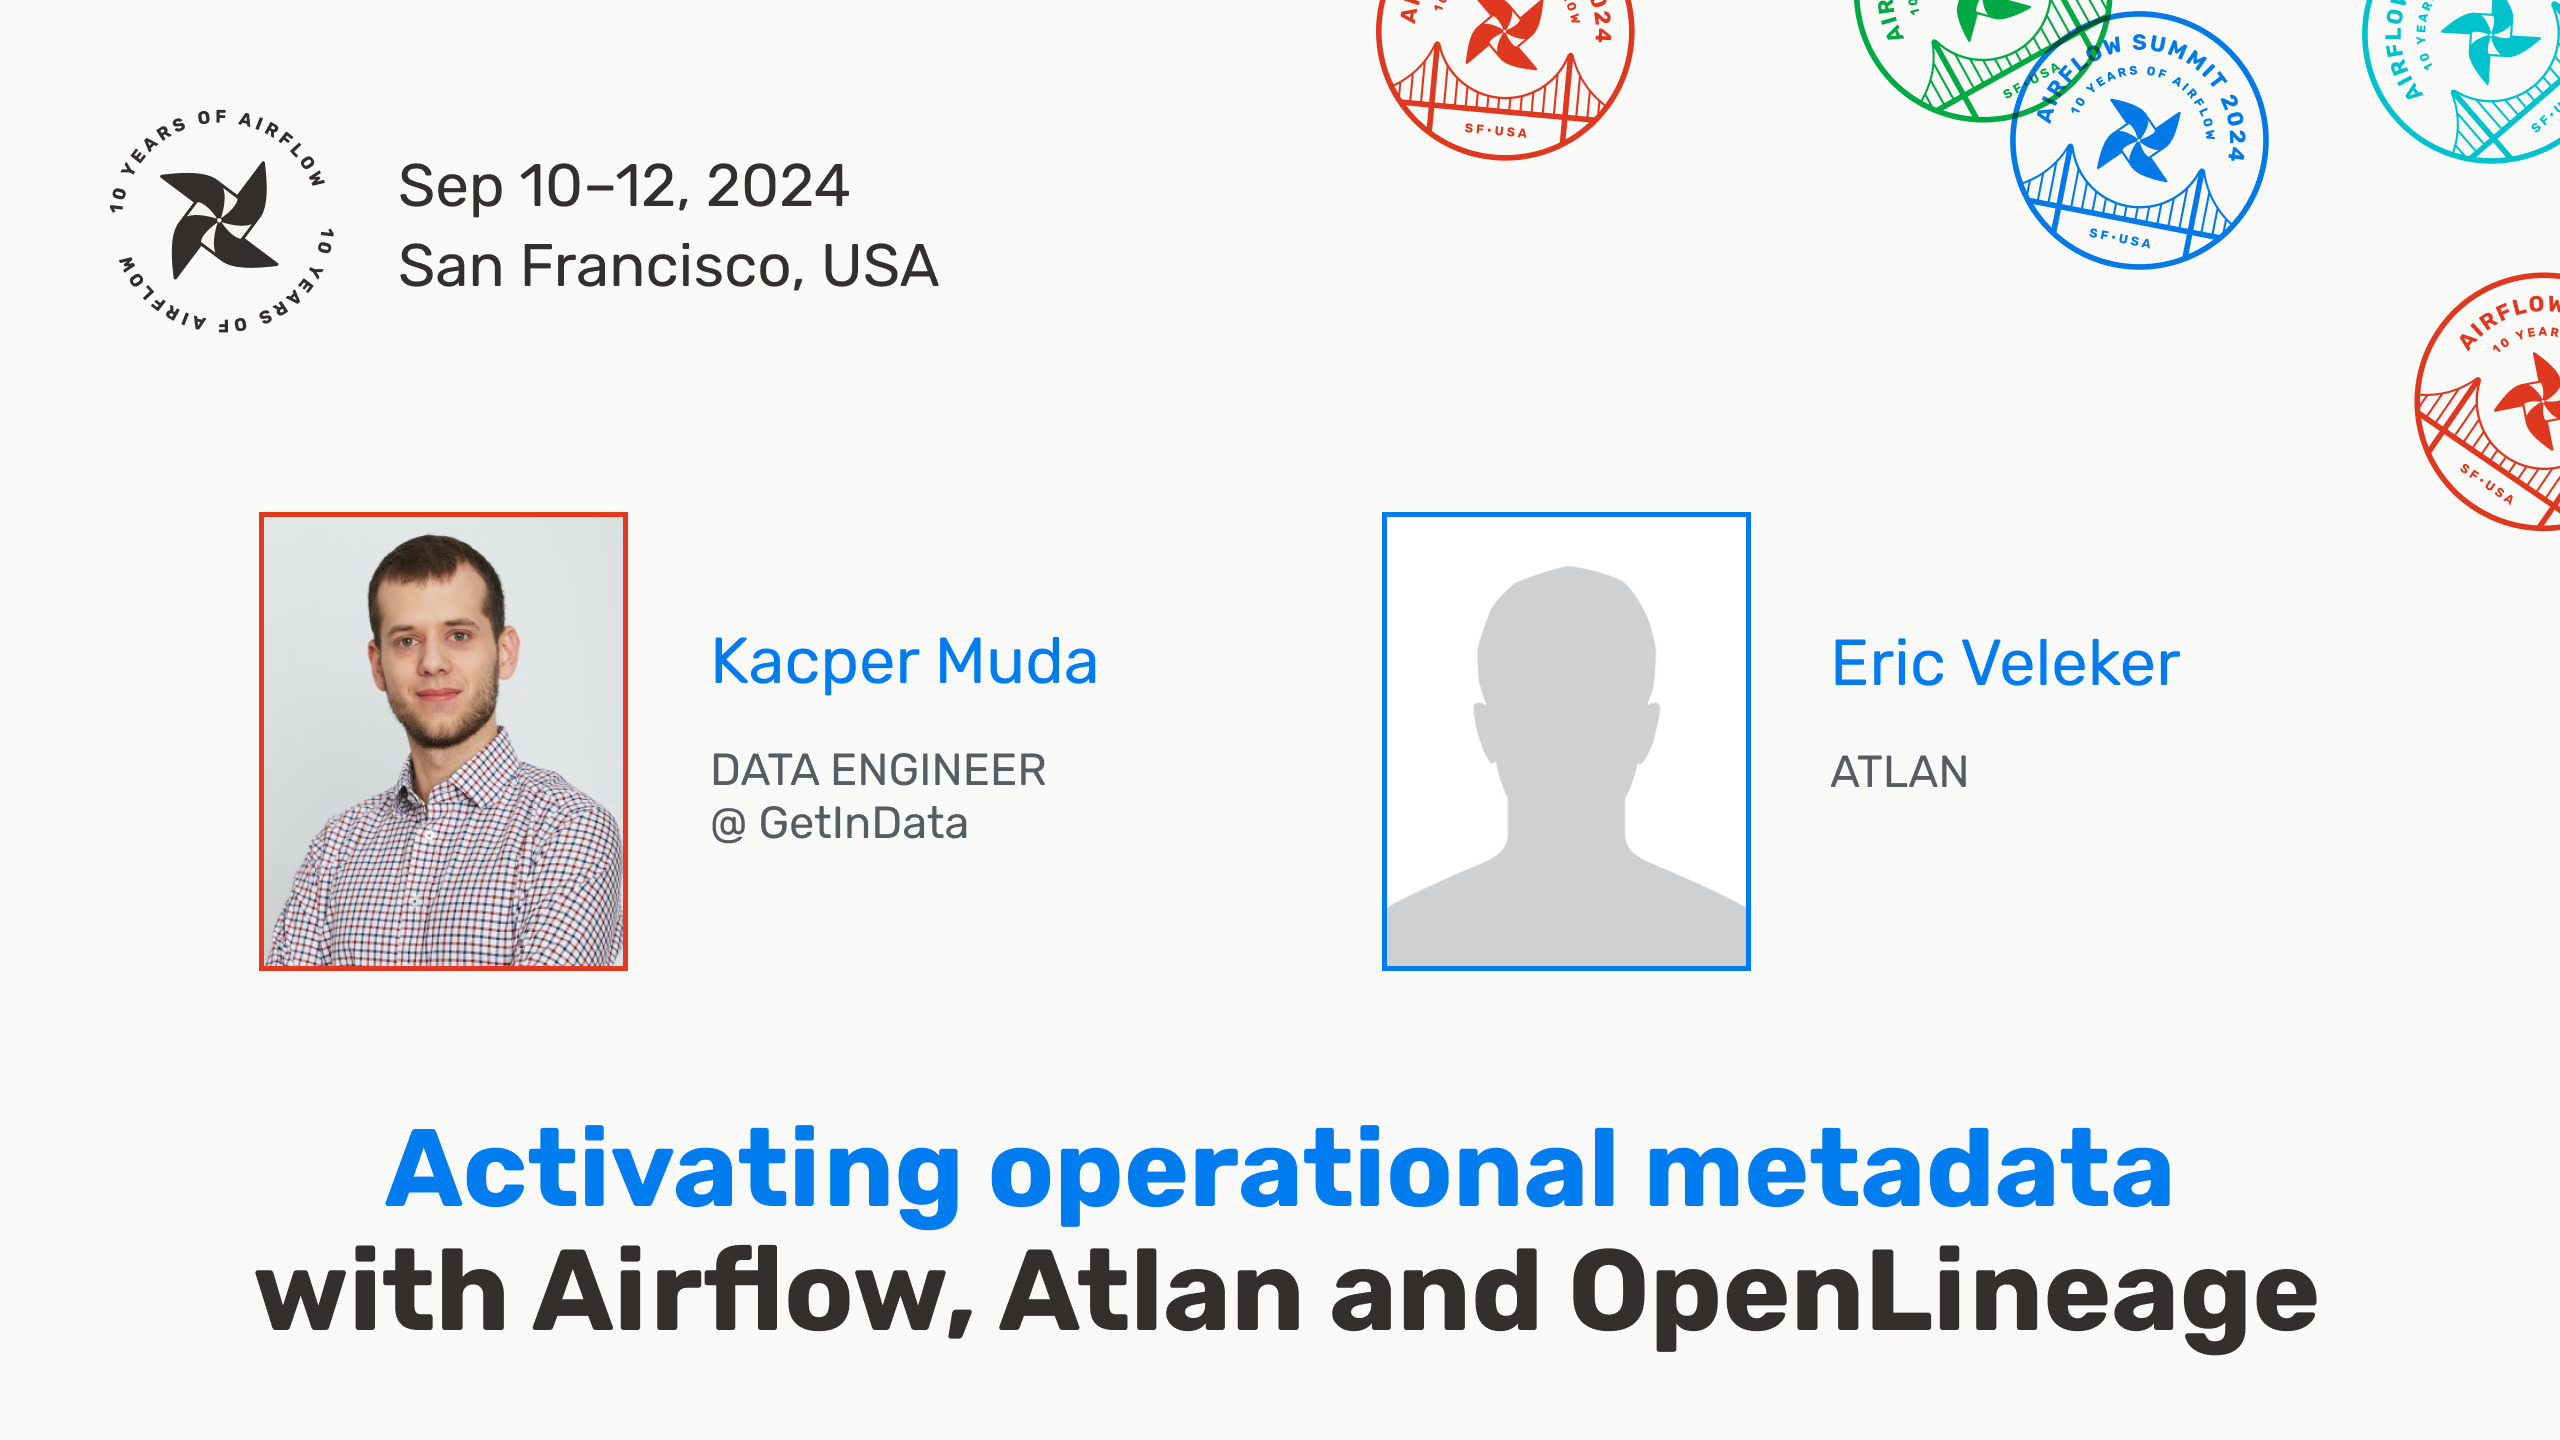
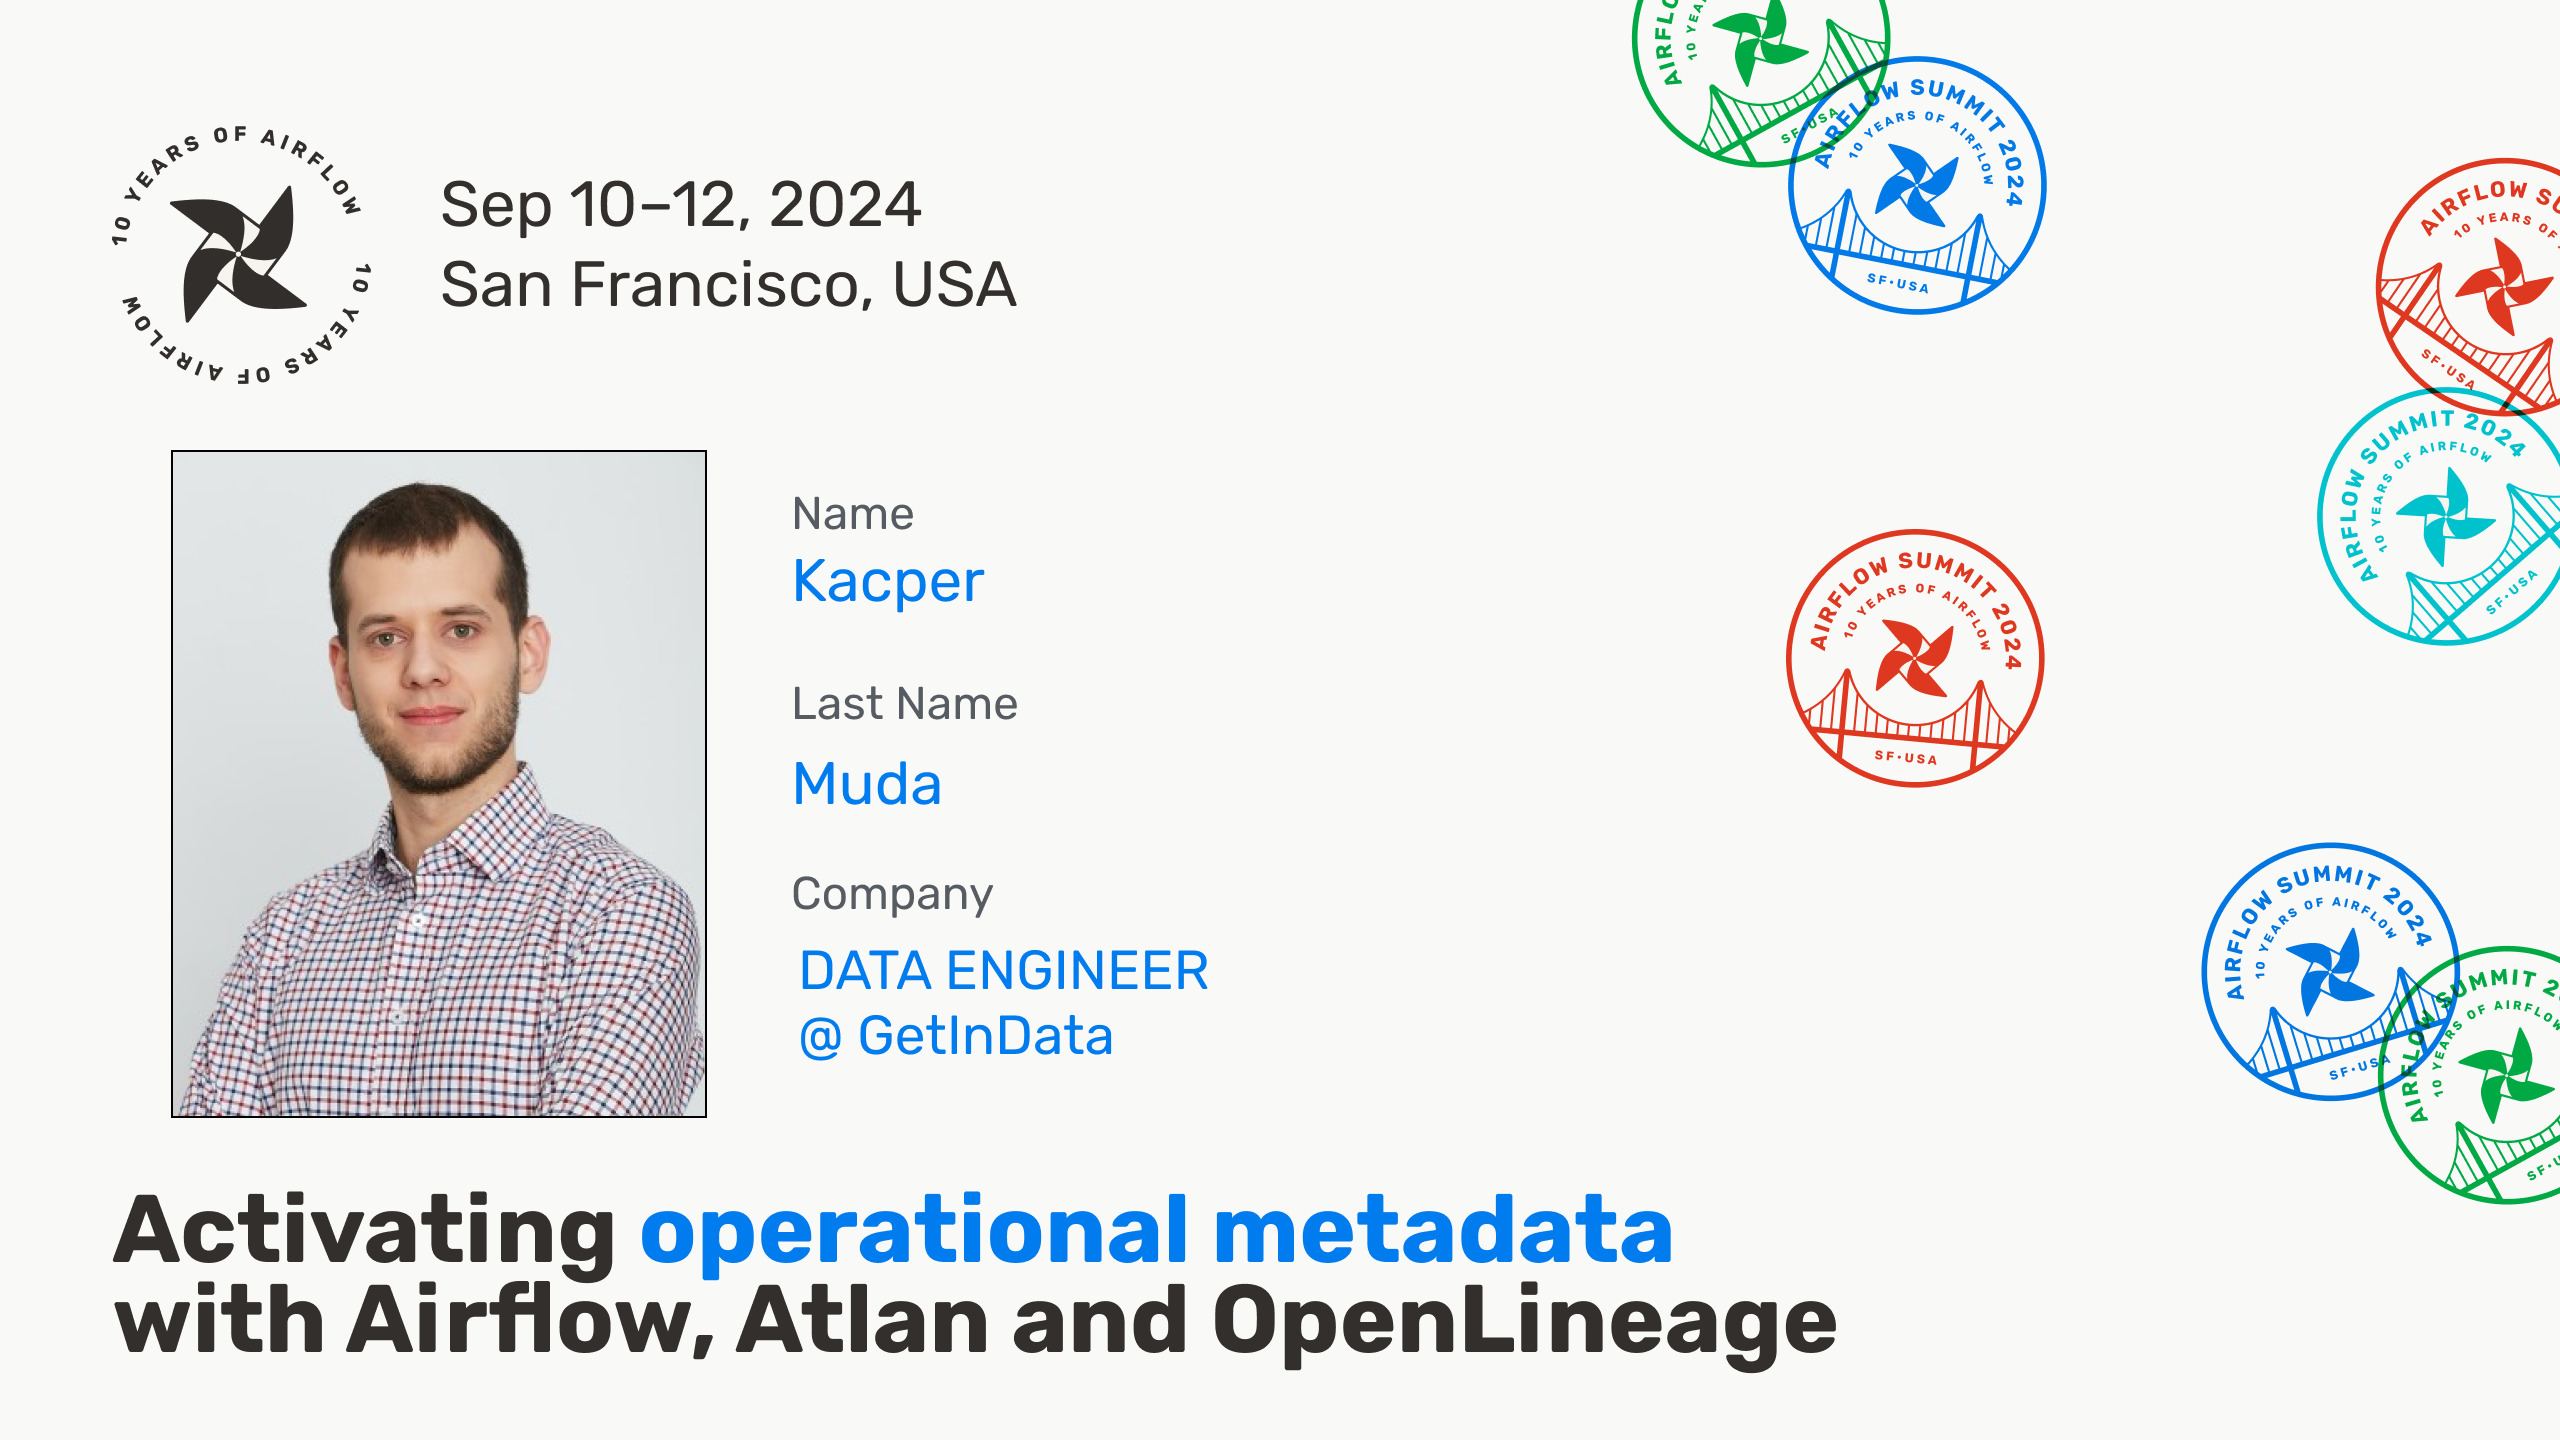
Removed Eric Veleker

diff --git a/content/sessions/2024/8-activating-operational-metadata-with-airflow-atlan-and-openlineage.md b/content/sessions/2024/8-activating-operational-metadata-with-airflow-atlan-and-openlineage.md
@@ -3,7 +3,6 @@ title: "Activating operational metadata with Airflow, Atlan and OpenLineage"
 slug: activating-operational-metadata-with-airflow-atlan-and-openlineage
 speakers:
  - Kacper Muda
- - Eric Veleker
 time_start: 2024-09-10 11:00:00
 time_end: 2024-09-10 11:45:00
 room: Georgian
@@ -17,18 +16,10 @@ images:
 
 OpenLineage is an open standard for lineage data collection, integrated into the Airflow codebase, facilitating lineage collection across providers like Google, Amazon, and more.
  
+Atlan Data Catalog is a 3rd generation active metadata platform that is a single source of trust unifying cataloging, data discovery, lineage, and governance experience.
  
+We will demonstrate what OpenLineage is and how, with minimal and intuitive setup across Airlfow and Atlan, it presents unified workflows view, efficient cross-platform lineage collection, including column level, in various technologies (Python, Spark, dbt, SQL etc.) and clouds (AWS, Azure, GCP, etc.) - all orchestrated by Airflow.
  
- Atlan Data Catalog is a 3rd generation active metadata platform that is a single source of trust unifying cataloging, data discovery, lineage, and governance experience.
+This integration enables further use case unlocks on automated metadata management by making the operational pipelines dataset-aware for self-service exploration. It also will demonstrate real world challenges and resolutions for lineage consumers in improving audit and compliance accuracy through column-level lineage traceability across the data estate.
  
- 
- 
- We will demonstrate what OpenLineage is and how, with minimal and intuitive setup across Airlfow and Atlan, it presents unified workflows view, efficient cross-platform lineage collection, including column level, in various technologies (Python, Spark, dbt, SQL etc.) and clouds (AWS, Azure, GCP, etc.) - all orchestrated by Airflow.
- 
- 
- 
- This integration enables further use case unlocks on automated metadata management by making the operational pipelines dataset-aware for self-service exploration. It also will demonstrate real world challenges and resolutions for lineage consumers in improving audit and compliance accuracy through column-level lineage traceability across the data estate.
- 
- 
- 
- The talk will also briefly overview the most recent OpenLineage developments and planned future enhancements.
+The talk will also briefly overview the most recent OpenLineage developments and planned future enhancements.

diff --git a/content/speakers/eric-veleker/_index.md b/content/speakers/eric-veleker/_index.md
@@ -9,6 +9,7 @@ linkedin: https://www.linkedin.com/in/ericveleker/
 github: 
 events:
  - 2024
+draft: true 
 ---
 
 Eric started off as a data practitioner in the biotech and legal arenas, later focusing on DataOps product and implementation at DataKitchen.  He currently looks after ISV Partnerships at Atlan.
